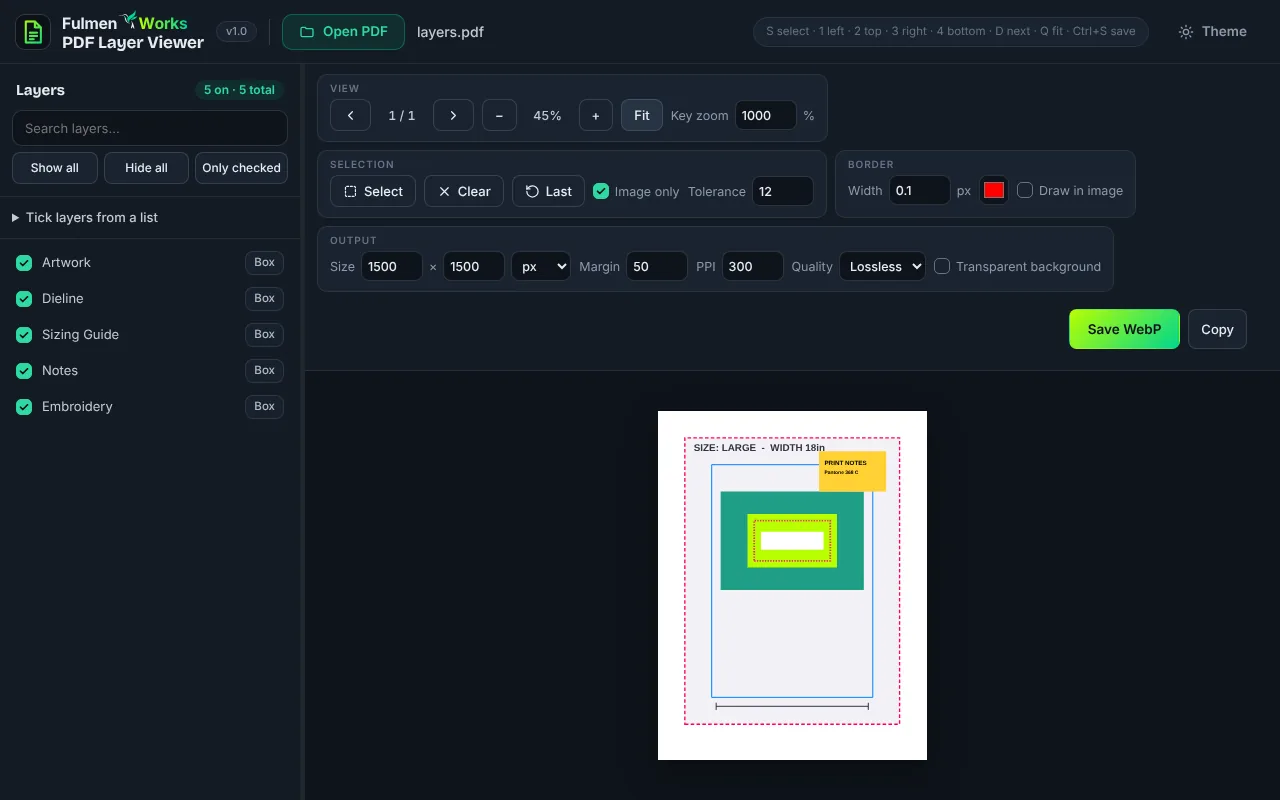
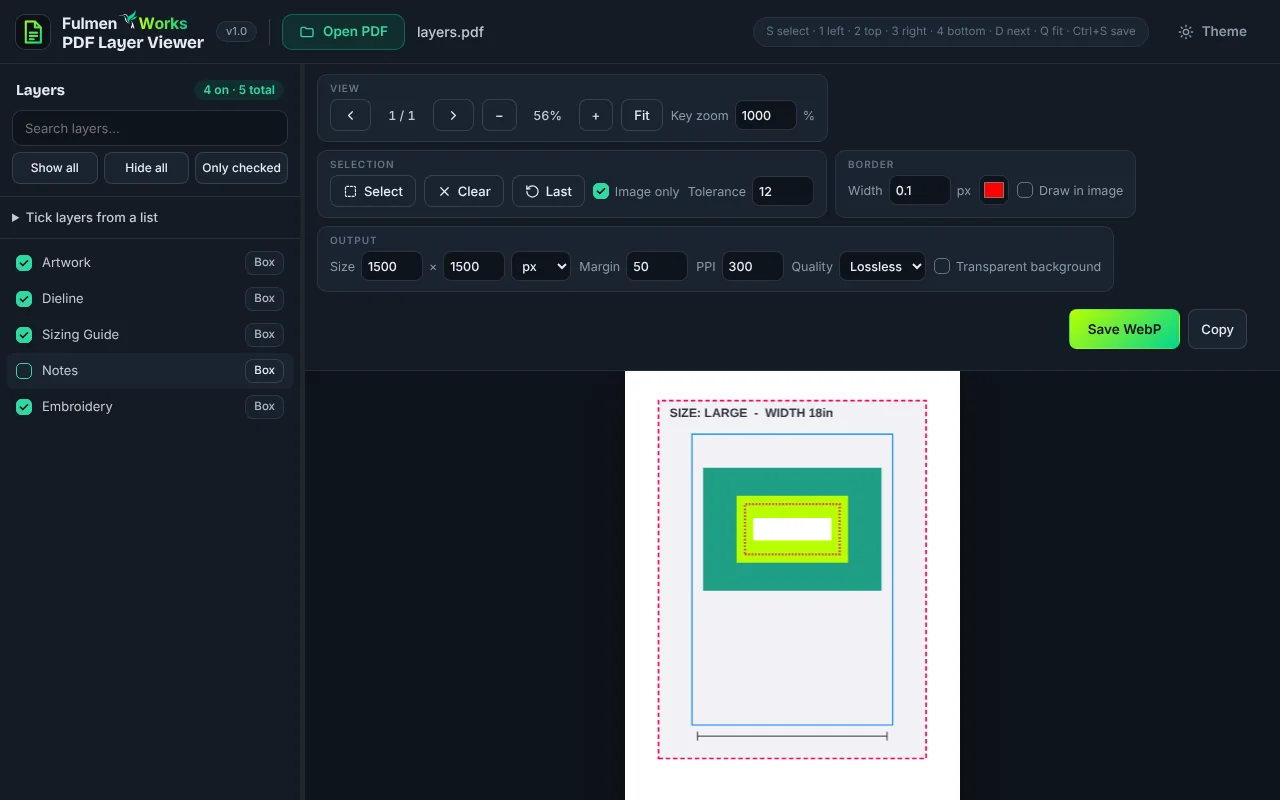
Highlight Free pill, left-aligned card text, dark PDF viewer screenshot
Claude-Session: https://claude.ai/code/session_01FAh3rAxsR7oXYiAxV7DWwm

Changed region(s): [[0.4688, 0.4375, 0.75, 1.0], [0.0, 0.4375, 0.0312, 0.4688]]

diff --git a/index.html b/index.html
@@ -22,13 +22,13 @@ h1 em{font-style:normal;background:var(--grad);-webkit-background-clip:text;back
 .hero p{margin-top:18px;font-size:18px;max-width:58ch;color:var(--soft)}
 h2{font:700 24px/1.2 var(--display);color:var(--text);margin-bottom:18px}
 .grid{display:grid;grid-template-columns:repeat(auto-fill,minmax(min(100%,310px),1fr));gap:16px}@media (min-width:960px){.grid{grid-template-columns:repeat(6,1fr)}.card{grid-column:span 2}.card:nth-child(n+4){grid-column:span 3}}
-.card{display:flex;gap:16px;padding:20px;background:rgba(21,28,39,.72);border:1px solid var(--line);border-radius:18px;transition:border-color .2s,transform .2s}
+.card{display:grid;grid-template-columns:64px 1fr;column-gap:16px;row-gap:12px;grid-template-rows:auto 1fr auto;padding:20px;background:rgba(21,28,39,.72);border:1px solid var(--line);border-radius:18px;transition:border-color .2s,transform .2s}
 .card:hover{border-color:#3d4b61;transform:translateY(-2px)}
 .ico{flex:none;width:64px;height:64px;border-radius:16px;overflow:hidden}.ico svg{width:100%;height:100%;display:block}
-.body{min-width:0;flex:1;display:flex;flex-direction:column;gap:8px}.foot{margin-top:auto;display:flex;flex-direction:column;gap:10px;padding-top:6px}.foot .meta{align-items:center}p{text-wrap:pretty}h2,h3{text-wrap:balance}
+.body{display:contents}.card h3{grid-column:2;align-self:center}.card p,.card .foot{grid-column:1/-1}.card .foot{align-self:end}.foot{margin-top:auto;display:flex;flex-direction:column;gap:10px;padding-top:6px}.foot .meta{align-items:center}p{text-align:left;text-wrap:wrap}
 .top{display:flex;align-items:center;gap:10px;flex-wrap:wrap}
 h3{font:700 18px/1.25 var(--display);color:var(--text)}
-.free{font-size:11.5px;font-weight:700;letter-spacing:.06em;text-transform:uppercase;color:var(--soft);background:rgba(255,255,255,.08);border-radius:99px;padding:2px 10px}
+.free{font-size:11.5px;font-weight:700;letter-spacing:.06em;text-transform:uppercase;color:#5CF0B6;background:rgba(0,214,143,.14);box-shadow:inset 0 0 0 1px rgba(0,214,143,.45);border-radius:99px;padding:2px 10px}
 .card p{font-size:14.5px;color:var(--muted)}
 .meta{display:flex;gap:6px 14px;flex-wrap:wrap;font-size:12.5px;color:#8D99AB;font-variant-numeric:tabular-nums}
 .meta span+span::before{content:"";display:inline-block;width:4px;height:4px;border-radius:50%;background:#5b6778;margin-right:14px;vertical-align:middle}
